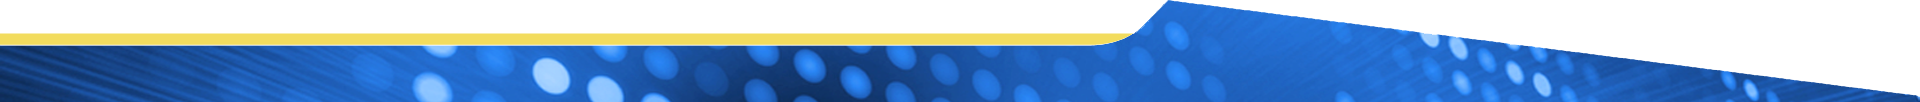
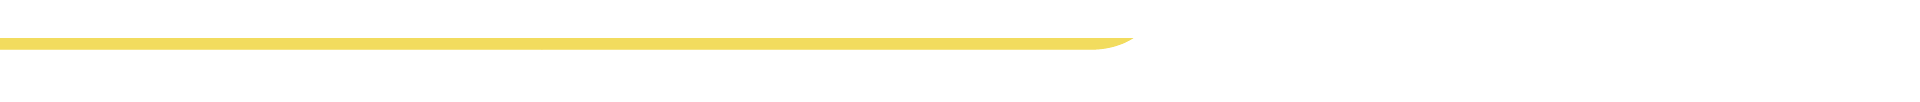
dmitry block in index pixel perfect 1920

diff --git a/sass/style_main.scss b/sass/style_main.scss
@@ -68,13 +68,16 @@
     }
 }
 
-.functional-index{background-image:url(../images/functional-index-background.png);background-repeat: none;background-position: center;
-    .functional-way-title{
-        >a, >span{background-color: transparent;color:#d92819;font-size: 24px;font-family: 'PT Sans Narrow', sans-serif;}
+.functional-index{background-image:url(../images/functional-index-background.png);background-repeat: no-repeat;background-position: center;padding-top: 38px;
+    .functional-way-title{text-align: right;height: 72px;margin-bottom: 1px;
+        >a, >span{background-color: transparent;color:#d92819;font-size: 27px;font-family: 'PT Sans Narrow', sans-serif;vertical-align: top;line-height: 1.2;padding-top: 9px;}
     }
     .functional-way-col{position: relative;
         &:before{content: '';display: block;position: absolute;left: 0;top: 0;right:0;bottom:0;background-color: #e3e9ed;transform:scale(0);transition:transform 300ms ease;}
         &:hover:before{transform:scale(1);}
+    }
+    .functional-way-list{padding-top: 10px;
+        li a{padding: 5px 10px 5px 5px;}
     }
 }
 
@@ -82,16 +85,17 @@
 
 /* specialization */
 
-.specialization-main{position: relative;padding-top:102px;overflow: hidden;}
-.specialization{background-image:url(../images/specialization-bg.png);background-position: center top;border-bottom: 12px solid #f2dc5e;padding: 0px 0 20px 0;position: relative;z-index: 1;position: relative;
-    .text-title-wrap{margin-top: -17px;}
-    &:before{content: '';display: block;height: 102px;width: 100%;background-image:url(../images/specialization-top-bg.png);background-position:center top;position: absolute;top: -85px;}
+.specialization-main{position: relative;}
+.specialization{background-image:url(../images/specialization-bg.jpg);background-position: center top;border-bottom: 12px solid #f2dc5e;padding: 0px 0 49px 0;position: relative;z-index: 1;background-attachment: fixed;padding-top: 102px;
+    &:before{content:'';display: block;position: absolute;width: 100%;top: 0px;height: 102px;background-image: url(../images/specialization-top-bg.png);z-index: 2;}
+    .text-title-wrap{position: relative;top: -17px;margin-bottom: 38px;}
+
 }
-.specialization-wrap{text-align: center;margin:0 -15px;
-    li{display: inline-block;vertical-align: top;width: calc(25% - 3.3rem);padding:0 15px;margin-bottom: 20px;
-        a{display: table;font-size: 18px;color:#fff;font-weight: 700;text-decoration: none;width: 100%;padding:0 15px;border:1px solid #fff;border-radius: 3px;background-color: rgba(0,45,111,.8);position: relative;
+.specialization-wrap{text-align: center;margin:0 66px;
+    li{display: inline-block;vertical-align: top;width: calc(25% - 3.3rem);padding:0 8px;margin-bottom: 22px;
+        a{display: table;font-size: 18px;color:#fff;font-weight: 700;text-decoration: none;width: 100%;padding:0 15px;border:1px solid #fff;border-radius: 1px;background-color: rgba(0,45,111,.8);position: relative;
             &:before{content: '';position: absolute;z-index: 0;background-color: #0b1d4a;top: 0;left: 0;bottom: 0;right:0;opacity: 0;transition:opacity 300ms ease, left 300ms ease, top 300ms ease, bottom 300ms, right 300ms;display: block;}
-            span{display: table-cell;vertical-align: middle;text-align: center;padding:10px 0 10px 0;position: relative;z-index: 1;}
+            span{display: table-cell;vertical-align: middle;text-align: center;padding:13px 0 13px 0;position: relative;z-index: 1;}
             &:hover:before{left: -10px;top: -10px;bottom:-10px;right:-10px;opacity: 1;}
         }
     }

diff --git a/css/style_main.css b/css/style_main.css
@@ -315,15 +315,25 @@
 
 .functional-index {
   background-image: url(../images/functional-index-background.png);
-  background-repeat: none;
+  background-repeat: no-repeat;
   background-position: center;
+  padding-top: 38px;
+}
+
+.functional-index .functional-way-title {
+  text-align: right;
+  height: 72px;
+  margin-bottom: 1px;
 }
 
 .functional-index .functional-way-title > a, .functional-index .functional-way-title > span {
   background-color: transparent;
   color: #d92819;
-  font-size: 24px;
+  font-size: 27px;
   font-family: 'PT Sans Narrow', sans-serif;
+  vertical-align: top;
+  line-height: 1.2;
+  padding-top: 9px;
 }
 
 .functional-index .functional-way-col {
@@ -358,42 +368,51 @@
   transform: scale(1);
 }
 
+.functional-index .functional-way-list {
+  padding-top: 10px;
+}
+
+.functional-index .functional-way-list li a {
+  padding: 5px 10px 5px 5px;
+}
+
 /* /functional-way */
 /* specialization */
 .specialization-main {
   position: relative;
-  padding-top: 102px;
-  overflow: hidden;
 }
 
 .specialization {
-  background-image: url(../images/specialization-bg.png);
+  background-image: url(../images/specialization-bg.jpg);
   background-position: center top;
   border-bottom: 12px solid #f2dc5e;
-  padding: 0px 0 20px 0;
+  padding: 0px 0 49px 0;
   position: relative;
   z-index: 1;
-  position: relative;
-}
-
-.specialization .text-title-wrap {
-  margin-top: -17px;
+  background-attachment: fixed;
+  padding-top: 102px;
 }
 
 .specialization:before {
   content: '';
   display: block;
-  height: 102px;
-  width: 100%;
-  background-image: url(../images/specialization-top-bg.png);
-  background-position: center top;
   position: absolute;
-  top: -85px;
+  width: 100%;
+  top: 0px;
+  height: 102px;
+  background-image: url(../images/specialization-top-bg.png);
+  z-index: 2;
+}
+
+.specialization .text-title-wrap {
+  position: relative;
+  top: -17px;
+  margin-bottom: 38px;
 }
 
 .specialization-wrap {
   text-align: center;
-  margin: 0 -15px;
+  margin: 0 66px;
 }
 
 .specialization-wrap li {
@@ -402,8 +421,8 @@
   width: -webkit-calc(25% - 3.3rem);
   width: -moz-calc(25% - 3.3rem);
   width: calc(25% - 3.3rem);
-  padding: 0 15px;
-  margin-bottom: 20px;
+  padding: 0 8px;
+  margin-bottom: 22px;
 }
 
 .specialization-wrap li a {
@@ -415,9 +434,9 @@
   width: 100%;
   padding: 0 15px;
   border: 1px solid #fff;
-  -webkit-border-radius: 3px;
-  -moz-border-radius: 3px;
-  border-radius: 3px;
+  -webkit-border-radius: 1px;
+  -moz-border-radius: 1px;
+  border-radius: 1px;
   background-color: rgba(0, 45, 111, 0.8);
   position: relative;
 }
@@ -443,7 +462,7 @@
   display: table-cell;
   vertical-align: middle;
   text-align: center;
-  padding: 10px 0 10px 0;
+  padding: 13px 0 13px 0;
   position: relative;
   z-index: 1;
 }
